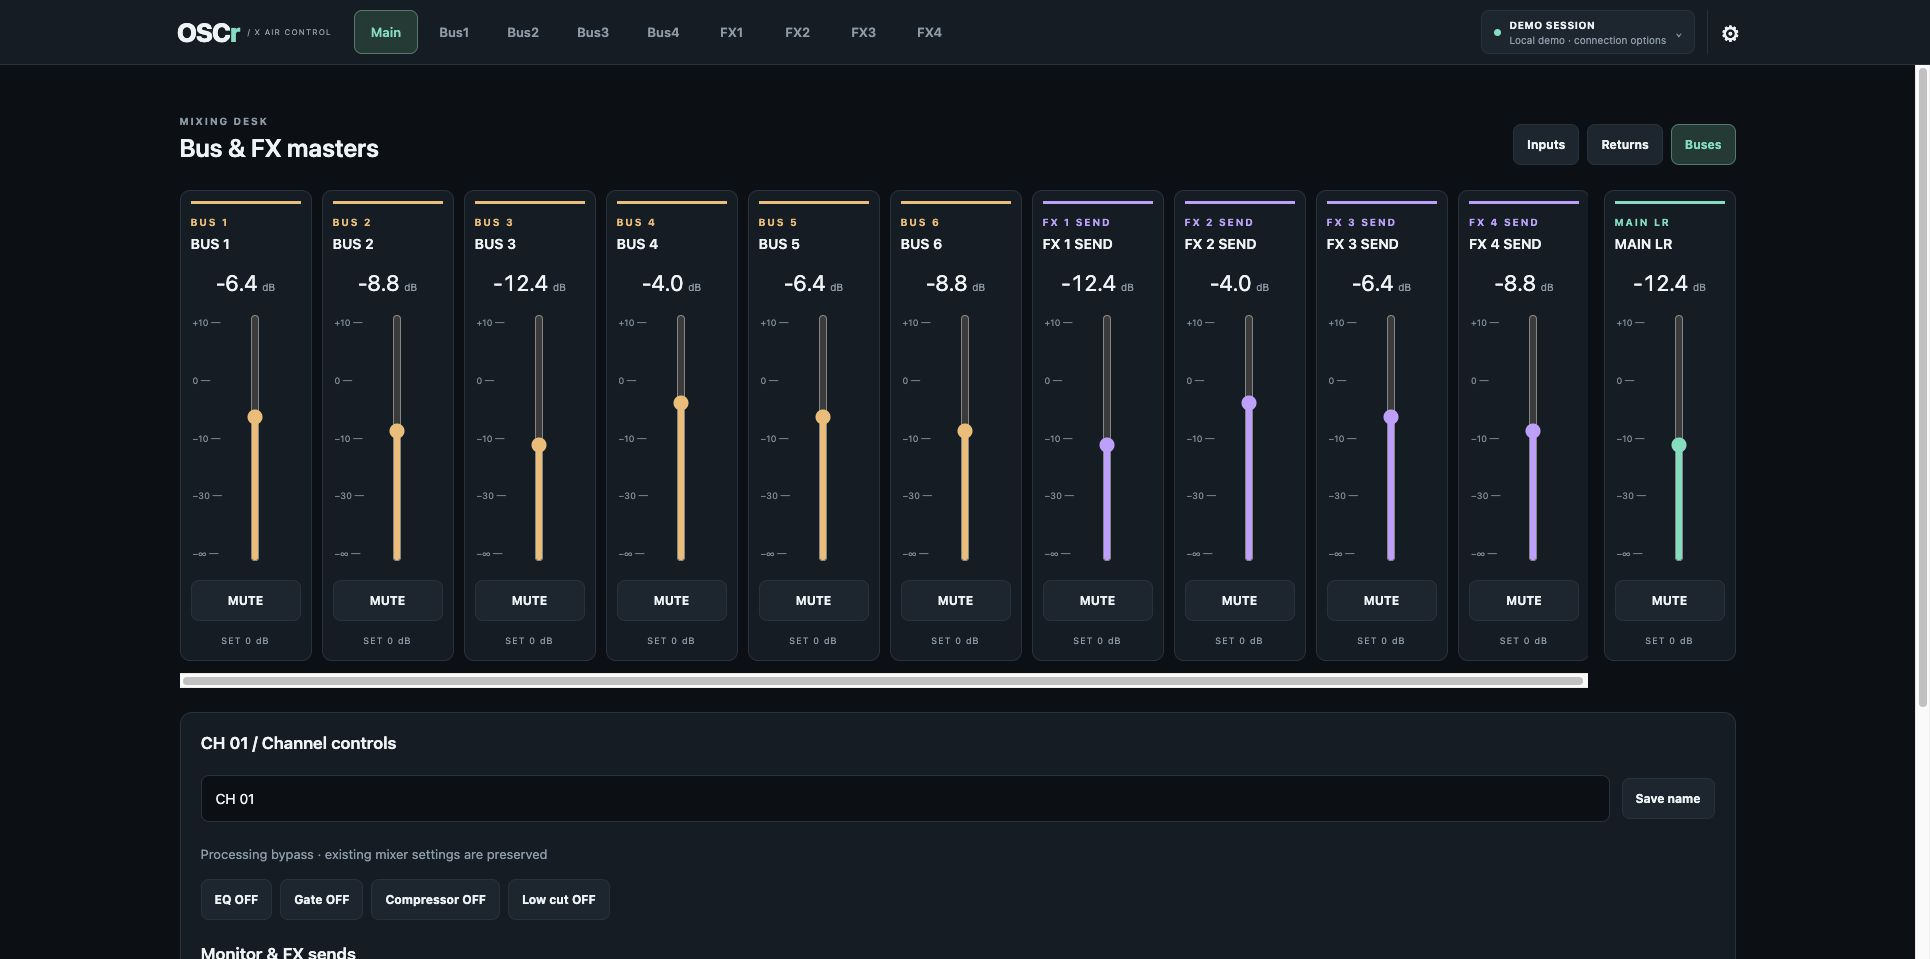
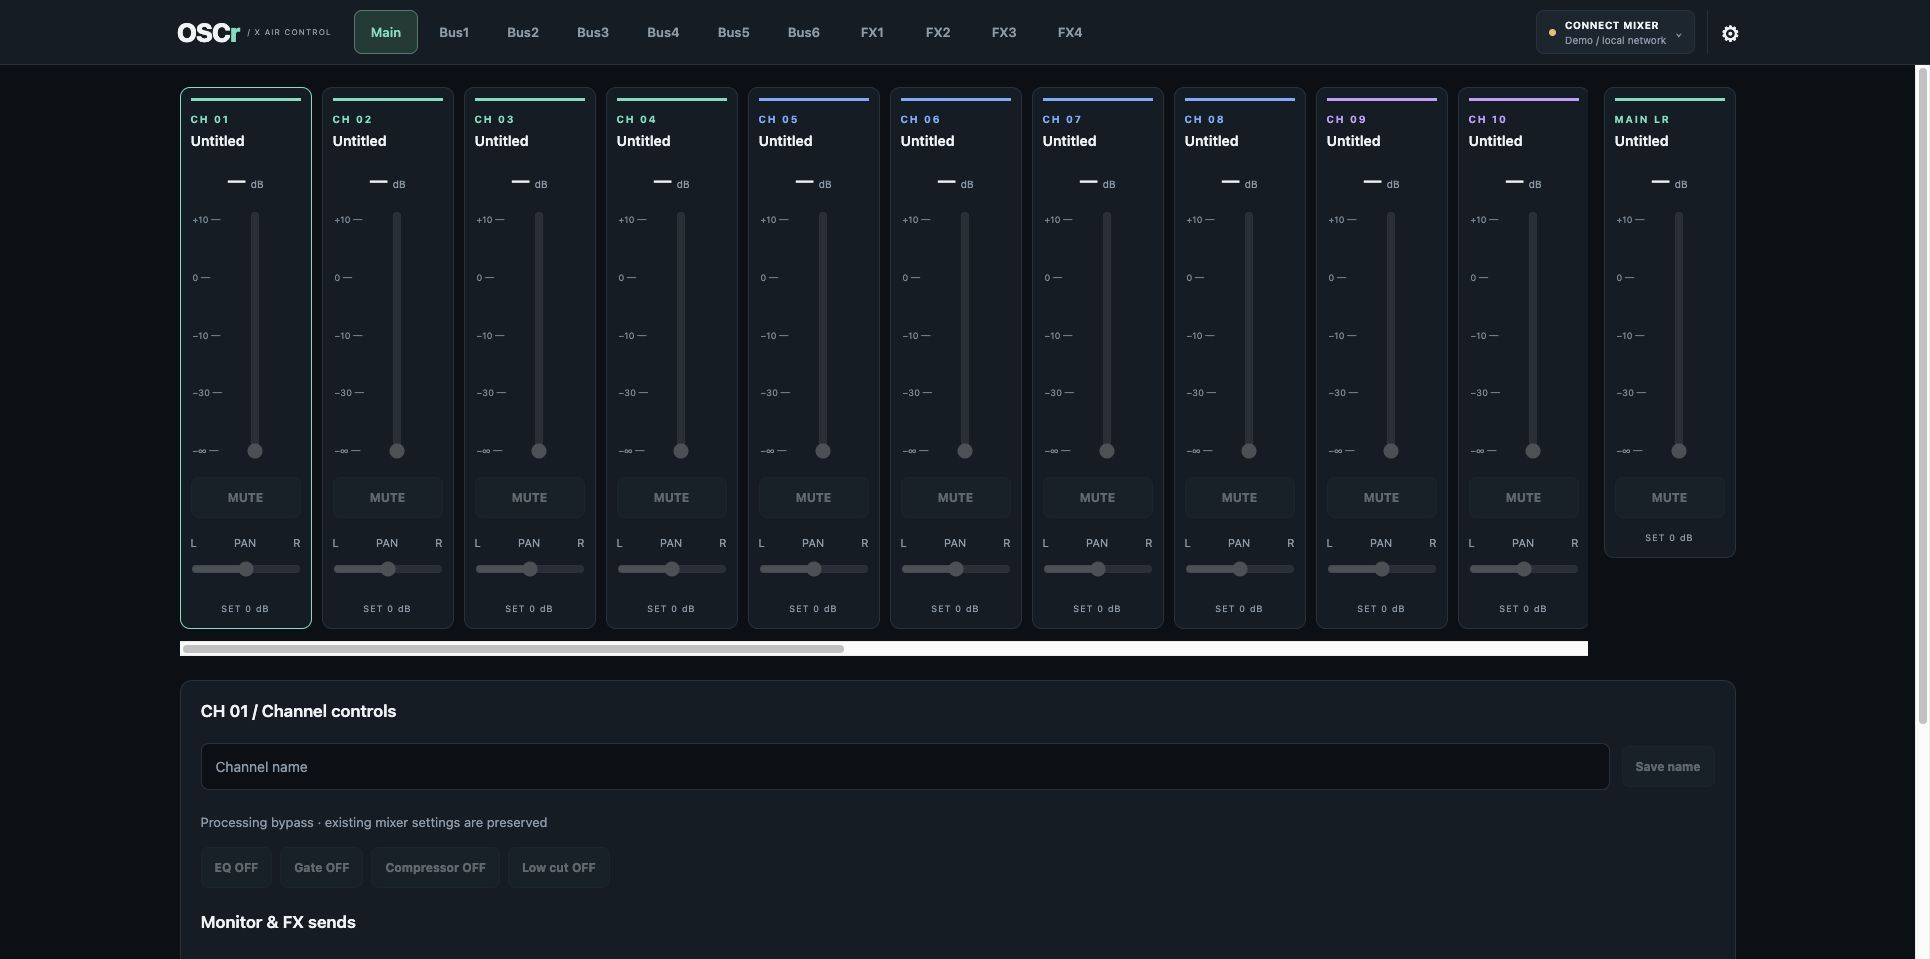
Show six bus mixes and corresponding returns in streamlined mixer layout

diff --git a/App.tsx b/App.tsx
@@ -8,7 +8,7 @@ import { strips, master, type Strip } from './src/mixer/model';
 import { levelLabel } from './src/mixer/osc';
 const mixTabs = [
   { label: 'Main', send: null, master },
-  ...Array.from({ length: 4 }, (_, i) => ({ label: `Bus${i + 1}`, send: i + 1, master: strips.find(strip => strip.id === `/bus/${i + 1}`)! })),
+  ...Array.from({ length: 6 }, (_, i) => ({ label: `Bus${i + 1}`, send: i + 1, master: strips.find(strip => strip.id === `/bus/${i + 1}`)! })),
   ...Array.from({ length: 4 }, (_, i) => ({ label: `FX${i + 1}`, send: i + 7, master: strips.find(strip => strip.id === `/fxsend/${i + 1}`)! })),
 ];
 type MixTab = (typeof mixTabs)[number];
@@ -48,9 +48,12 @@ function ChannelDetails({ strip, mixer }: { strip: Strip; mixer: Mixer }) {
 function MixerApp() {
   const mixer = useMixer(); const [host, setHost] = useState('192.168.1.1'); const [settings, setSettings] = useState(false);
   const [mix, setMix] = useState(mixTabs[0]);
-  const [group, setGroup] = useState<Strip['group']>('Inputs'); const [selected, setSelected] = useState(strips[0]);
+  const [selected, setSelected] = useState(strips[0]);
   const { width } = useWindowDimensions(); const ready = mixer.status === 'connected' || mixer.status === 'demo';
   const output = mix.master;
+  const visibleStrips = mix.send
+    ? [...strips.filter(strip => strip.group === 'Inputs'), ...strips.filter(strip => mix.send! <= 6 ? strip.group === 'Returns' : strip.id === `/rtn/${mix.send! - 6}`)]
+    : strips.filter(strip => strip.group === 'Inputs' || strip.group === 'Returns');
   const compactBar = width < 1100;
   const logo = <View style={s.barLogo}><Text style={s.brand}>OSC<Text style={{ color: C.green }}>r</Text></Text><Text style={s.brandSub}>/ X AIR CONTROL</Text></View>;
   const connection = <Pressable accessibilityRole="button" accessibilityLabel="Connection status" accessibilityHint="Open connection and demo options" onPress={() => setSettings(true)} style={({ pressed }) => [s.connectionBadge, pressed && s.active]}>
@@ -69,9 +72,7 @@ function MixerApp() {
     <ScrollView contentContainerStyle={s.page}>
     {!!mixer.error && <Text accessibilityRole="alert" style={s.error}>{mixer.error}</Text>}
 
-    <View style={[s.row, { marginTop: 28, marginBottom: 16, flexWrap: 'wrap' }]}><View style={{ flex: 1 }}><Text style={s.eyebrow}>MIXING DESK</Text><Text style={s.title}>{mix.send ? `${mix.label} send mix` : group === 'Inputs' ? 'Input channels' : group === 'Returns' ? 'Aux & effects returns' : 'Bus & FX masters'}</Text></View>{!mix.send && <View style={s.wrap}>{(['Inputs', 'Returns', 'Buses'] as const).map(g => <Button key={g} text={g} active={group === g} onPress={() => setGroup(g)} />)}</View>}</View>
-    {mix.send && <Text style={s.mixNotice}>Faders adjust input sends to {mix.label}. Mute buttons mute the input channel across every mix.</Text>}
-    <View style={{ flexDirection: width > 600 ? 'row' : 'column', gap: 16 }}><ScrollView horizontal style={{ flex: 1 }} contentContainerStyle={{ gap: 10, paddingBottom: 12 }} showsHorizontalScrollIndicator><>{strips.filter(c => c.group === (mix.send ? 'Inputs' : group)).map(strip => <Fader key={`${mix.label}-${strip.id}`} strip={strip} mix={mix} mixer={mixer} selected={selected.id === strip.id} onSelect={() => setSelected(strip)} />)}</></ScrollView><View style={width <= 600 ? s.mobileMaster : undefined}><Fader key={output.id} strip={output} mixer={mixer} selected={selected.id === output.id} onSelect={() => setSelected(output)} />{width <= 600 && <View style={{ flex: 1, padding: 16 }}><Text style={s.sectionTitle}>{mix.send ? `${mix.label} master output` : 'Main stereo output'}</Text><Text style={s.description}>{mix.send ? `The master fader controls the ${mix.label} output level.` : 'The master fader controls your main LR mix.'}</Text></View>}</View></View>
+    <View style={{ flexDirection: width > 600 ? 'row' : 'column', gap: 16 }}><ScrollView horizontal style={{ flex: 1 }} contentContainerStyle={{ gap: 10, paddingBottom: 12 }} showsHorizontalScrollIndicator><>{visibleStrips.map(strip => <Fader key={`${mix.label}-${strip.id}`} strip={strip} mix={strip.group === 'Returns' && (mix.send ?? 0) > 6 ? undefined : mix} mixer={mixer} selected={selected.id === strip.id} onSelect={() => setSelected(strip)} />)}</></ScrollView><View style={width <= 600 ? s.mobileMaster : undefined}><Fader key={output.id} strip={output} mixer={mixer} selected={selected.id === output.id} onSelect={() => setSelected(output)} />{width <= 600 && <View style={{ flex: 1, padding: 16 }}><Text style={s.sectionTitle}>{mix.send ? `${mix.label} master output` : 'Main stereo output'}</Text><Text style={s.description}>{mix.send ? `The master fader controls the ${mix.label} output level.` : 'The master fader controls your main LR mix.'}</Text></View>}</View></View>
     <ChannelDetails key={`${selected.id}-${mixer.status}-${mixer.values[`${selected.id}/config/name`] ?? ''}`} strip={selected} mixer={mixer} />
     <Text style={s.footer}>OSCr  /  XR18 WORKSPACE     •     {mixer.status === 'demo' ? 'DEMO MODE' : 'OSC / UDP'}\nLevels are control values, not audio meters.</Text>
   </ScrollView>

diff --git a/src/mixer/model.ts b/src/mixer/model.ts
@@ -7,4 +7,10 @@ export const strips: Strip[] = [
   ...Array.from({ length: 4 }, (_, i): Strip => ({ id: `/fxsend/${i + 1}`, label: `FX ${i + 1} SEND`, group: 'Buses', color: '#c49bff' })),
 ];
 export const master: Strip = { id: '/lr', label: 'MAIN LR', group: 'Buses', color: '#6de0bc' };
-export const queryPaths = () => [...strips, master].flatMap(s => [`${s.id}/config/name`, ...['fader', 'on', 'pan'].map(p => `${s.id}/mix/${p}`), ...(/^\/ch\//.test(s.id) ? ['eq/on', 'gate/on', 'dyn/on', 'preamp/hpon', ...Array.from({length: 10}, (_, i) => `mix/${String(i + 1).padStart(2, '0')}/level`)].map(p => `${s.id}/${p}`) : [])]);
+export const queryPaths = () => [...strips, master].flatMap(strip => {
+  const paths = [`${strip.id}/config/name`, ...['fader', 'on', 'pan'].map(p => `${strip.id}/mix/${p}`)];
+  if (strip.group === 'Inputs') paths.push(...['eq/on', 'gate/on', 'dyn/on', 'preamp/hpon'].map(p => `${strip.id}/${p}`));
+  const sendCount = strip.group === 'Inputs' ? 10 : strip.group === 'Returns' ? 6 : 0;
+  for (let send = 1; send <= sendCount; send++) paths.push(`${strip.id}/mix/${String(send).padStart(2, '0')}/level`);
+  return paths;
+});

diff --git a/tests/osc.test.ts b/tests/osc.test.ts
@@ -32,3 +32,11 @@ test('XR18 addresses cover 16 inputs, stereo aux, 4 returns, 6 buses, 4 FX sends
   for (const path of ['/ch/16/mix/fader','/rtn/aux/mix/on','/rtn/4/mix/fader','/bus/6/mix/fader','/fxsend/4/mix/fader','/lr/mix/fader','/ch/01/mix/10/level']) assert.ok(paths.includes(path));
   assert.equal(new Set(paths).size, paths.length);
 });
+
+test('return levels are synchronized for all six bus mixes', () => {
+  const paths = queryPaths();
+  for (const root of ['/rtn/aux', '/rtn/1', '/rtn/2', '/rtn/3', '/rtn/4']) {
+    for (let bus = 1; bus <= 6; bus++) assert.ok(paths.includes(`${root}/mix/${String(bus).padStart(2, '0')}/level`));
+    assert.ok(!paths.includes(`${root}/mix/07/level`));
+  }
+});

diff --git a/README.md b/README.md
@@ -34,7 +34,7 @@ Subsequent development sessions can use `npm start`. `eas.json` also provides de
 
 ## Mixing toolbar
 
-The top bar stays visible while scrolling. Main controls the LR mix; Bus1–Bus4 select monitor sends, and FX1–FX4 select effect sends. Each send mix shows its own output master. On small screens, swipe the tab row horizontally; the Settings gear stays on the right. Input mute buttons affect every mix, including when a send tab is selected.
+The top bar stays visible while scrolling. Main controls the LR mix; Bus1–Bus6 select monitor sends, and FX1–FX4 select effect sends. Each send mix shows its own output master. On small screens, swipe the tab row horizontally; the Settings gear stays on the right. Input mute buttons affect every mix, including when a send tab is selected.
 
 ## Implemented controls
 
